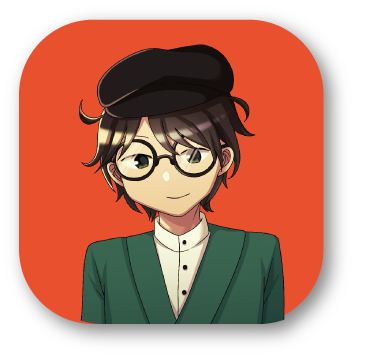
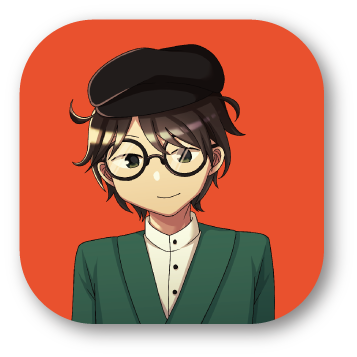
mod: アイコンサイズの調整やアイコンの微修正

diff --git a/src/components/stylesheets/main.css b/src/components/stylesheets/main.css
@@ -1007,7 +1007,7 @@ img.page-img {
 .page-article .page-header .post-image,
 .post .header-article .post-image,
 .post .page-header .post-image {
-  width: 20%;
+  width: 200px;
   display: inline-block;
   margin: 1.0rem auto 0rem auto;
 }
